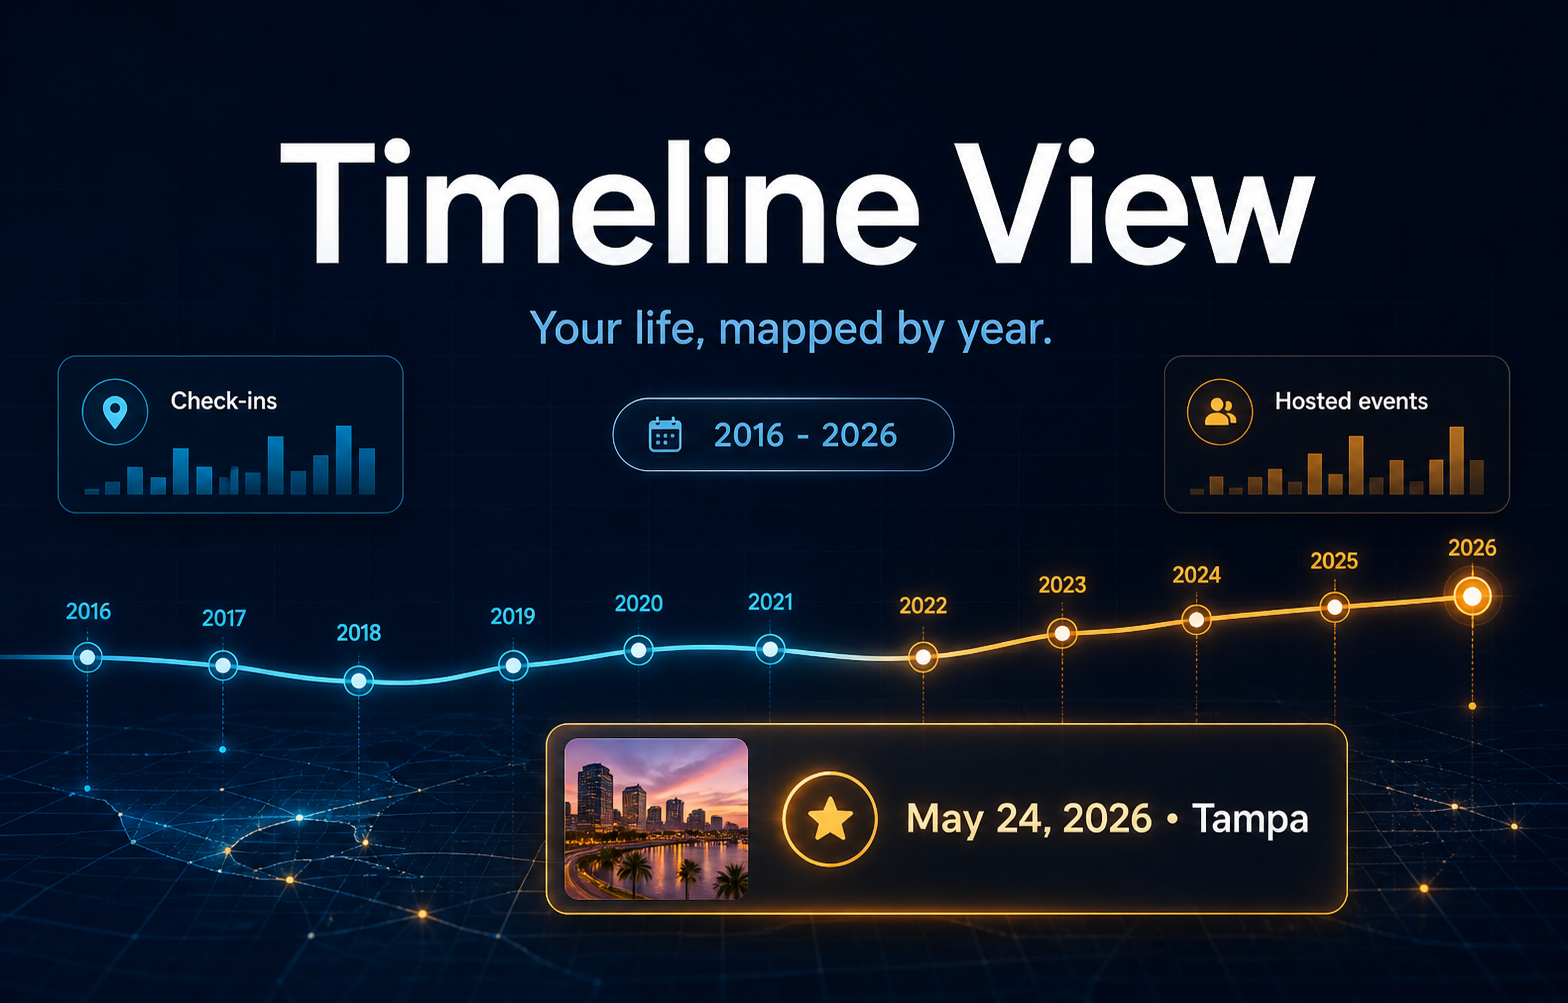
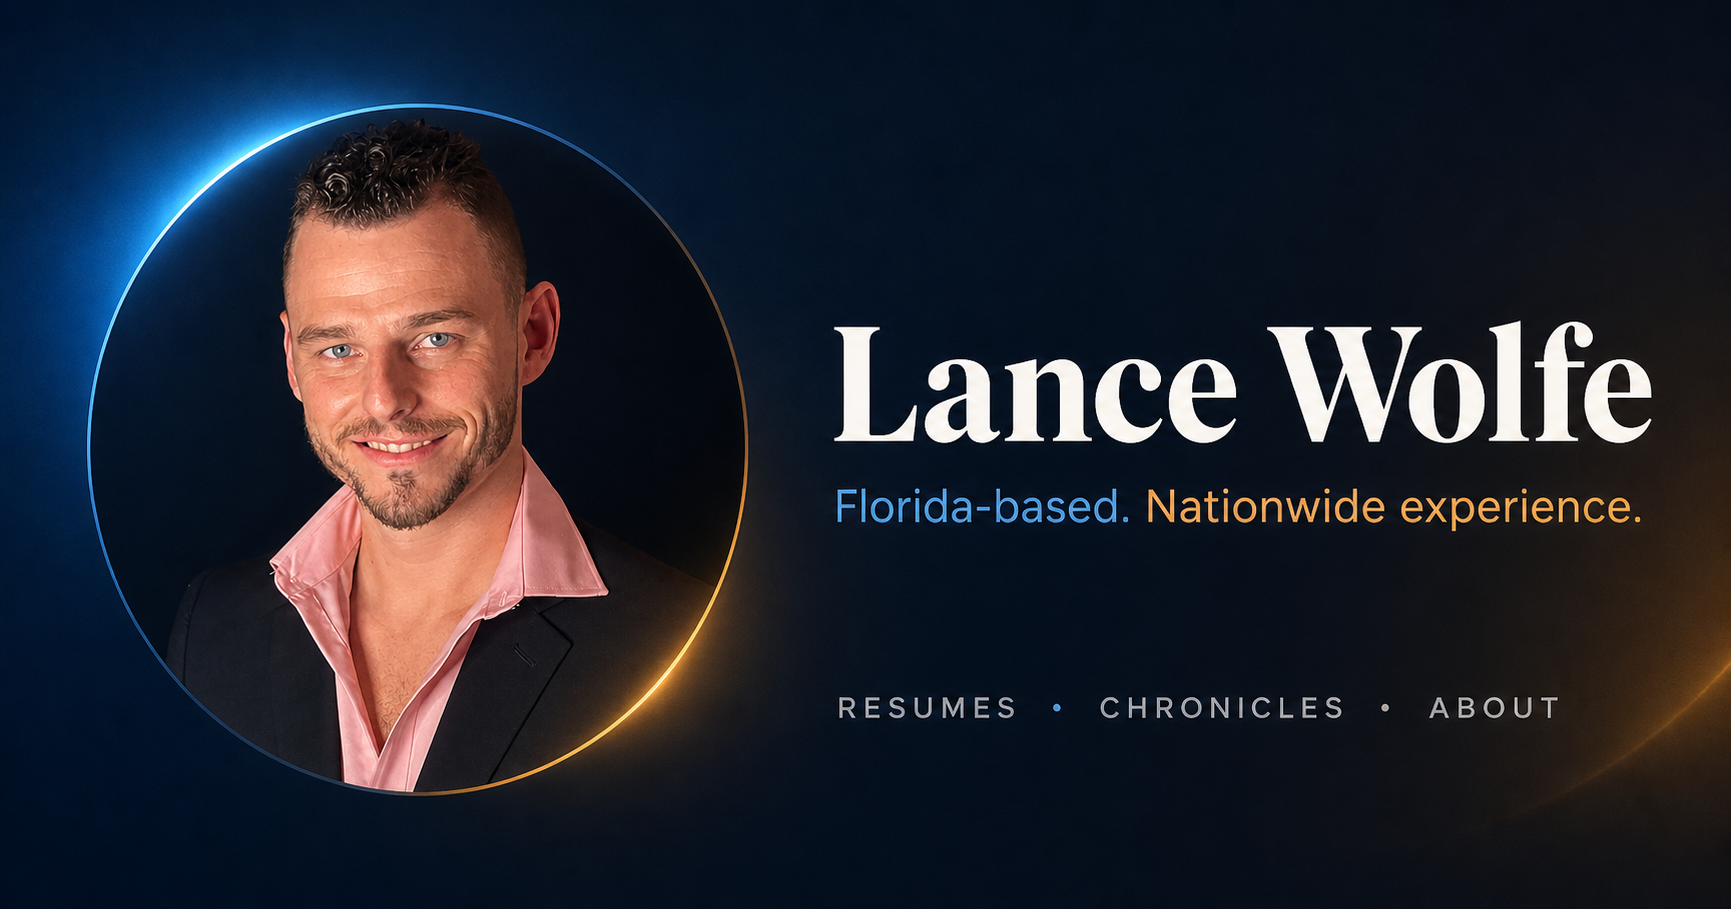
Add SEO and Florida-based branding

diff --git a/app/layout.tsx b/app/layout.tsx
@@ -4,9 +4,17 @@ import "./globals.css";
 const siteTitle = "Lance Wolfe";
 const siteDescription =
   "Personal site for Lance Wolfe, with resumes, chronicles, and career information.";
+const siteImage = "/og.png";
 
 export const metadata: Metadata = {
   metadataBase: new URL("https://lancewolfe.com"),
+  alternates: {
+    canonical: "/",
+  },
+  robots: {
+    index: true,
+    follow: true,
+  },
   title: siteTitle,
   description: siteDescription,
   icons: {
@@ -20,16 +28,16 @@ export const metadata: Metadata = {
     type: "website",
     images: [
       {
-        url: "/profile-picture.jpg",
-        alt: "Lance Wolfe portrait",
+        url: siteImage,
+        alt: "Lance Wolfe personal website preview",
       },
     ],
   },
   twitter: {
-    card: "summary",
+    card: "summary_large_image",
     title: siteTitle,
     description: siteDescription,
-    images: ["/profile-picture.jpg"],
+    images: [siteImage],
   },
 };
 

diff --git a/app/career/resume-hub.tsx b/app/career/resume-hub.tsx
@@ -26,7 +26,7 @@ export function ResumeHub() {
     <SiteShell
       eyebrow="Resume hub"
       title="Lance Wolfe"
-      subtitle="Orlando-based. Nationwide experience."
+      subtitle="Florida-based. Nationwide experience."
       body="Live-event operations professional with 10+ years in hospitality and nationwide experience across major music festivals, sporting events, and premium hospitality programs."
       primary={{ href: "/resumes/full-event-resume.pdf", label: "View resume" }}
       secondary={{ href: "/career/timeline", label: "Timeline" }}

diff --git a/app/page.tsx b/app/page.tsx
@@ -14,7 +14,7 @@ export default function Home() {
     <SiteShell
       eyebrow="Lance Wolfe"
       title="Lance Wolfe"
-      subtitle="Orlando-based. Nationwide experience."
+      subtitle="Florida-based. Nationwide experience."
       body="Live-event operations professional with 10+ years in hospitality and nationwide experience across major music festivals, sporting events, and premium hospitality programs."
       primary={{ href: "/career", label: "View resumes" }}
       secondary={{ href: "/chronicles", label: "Read the chronicles" }}
